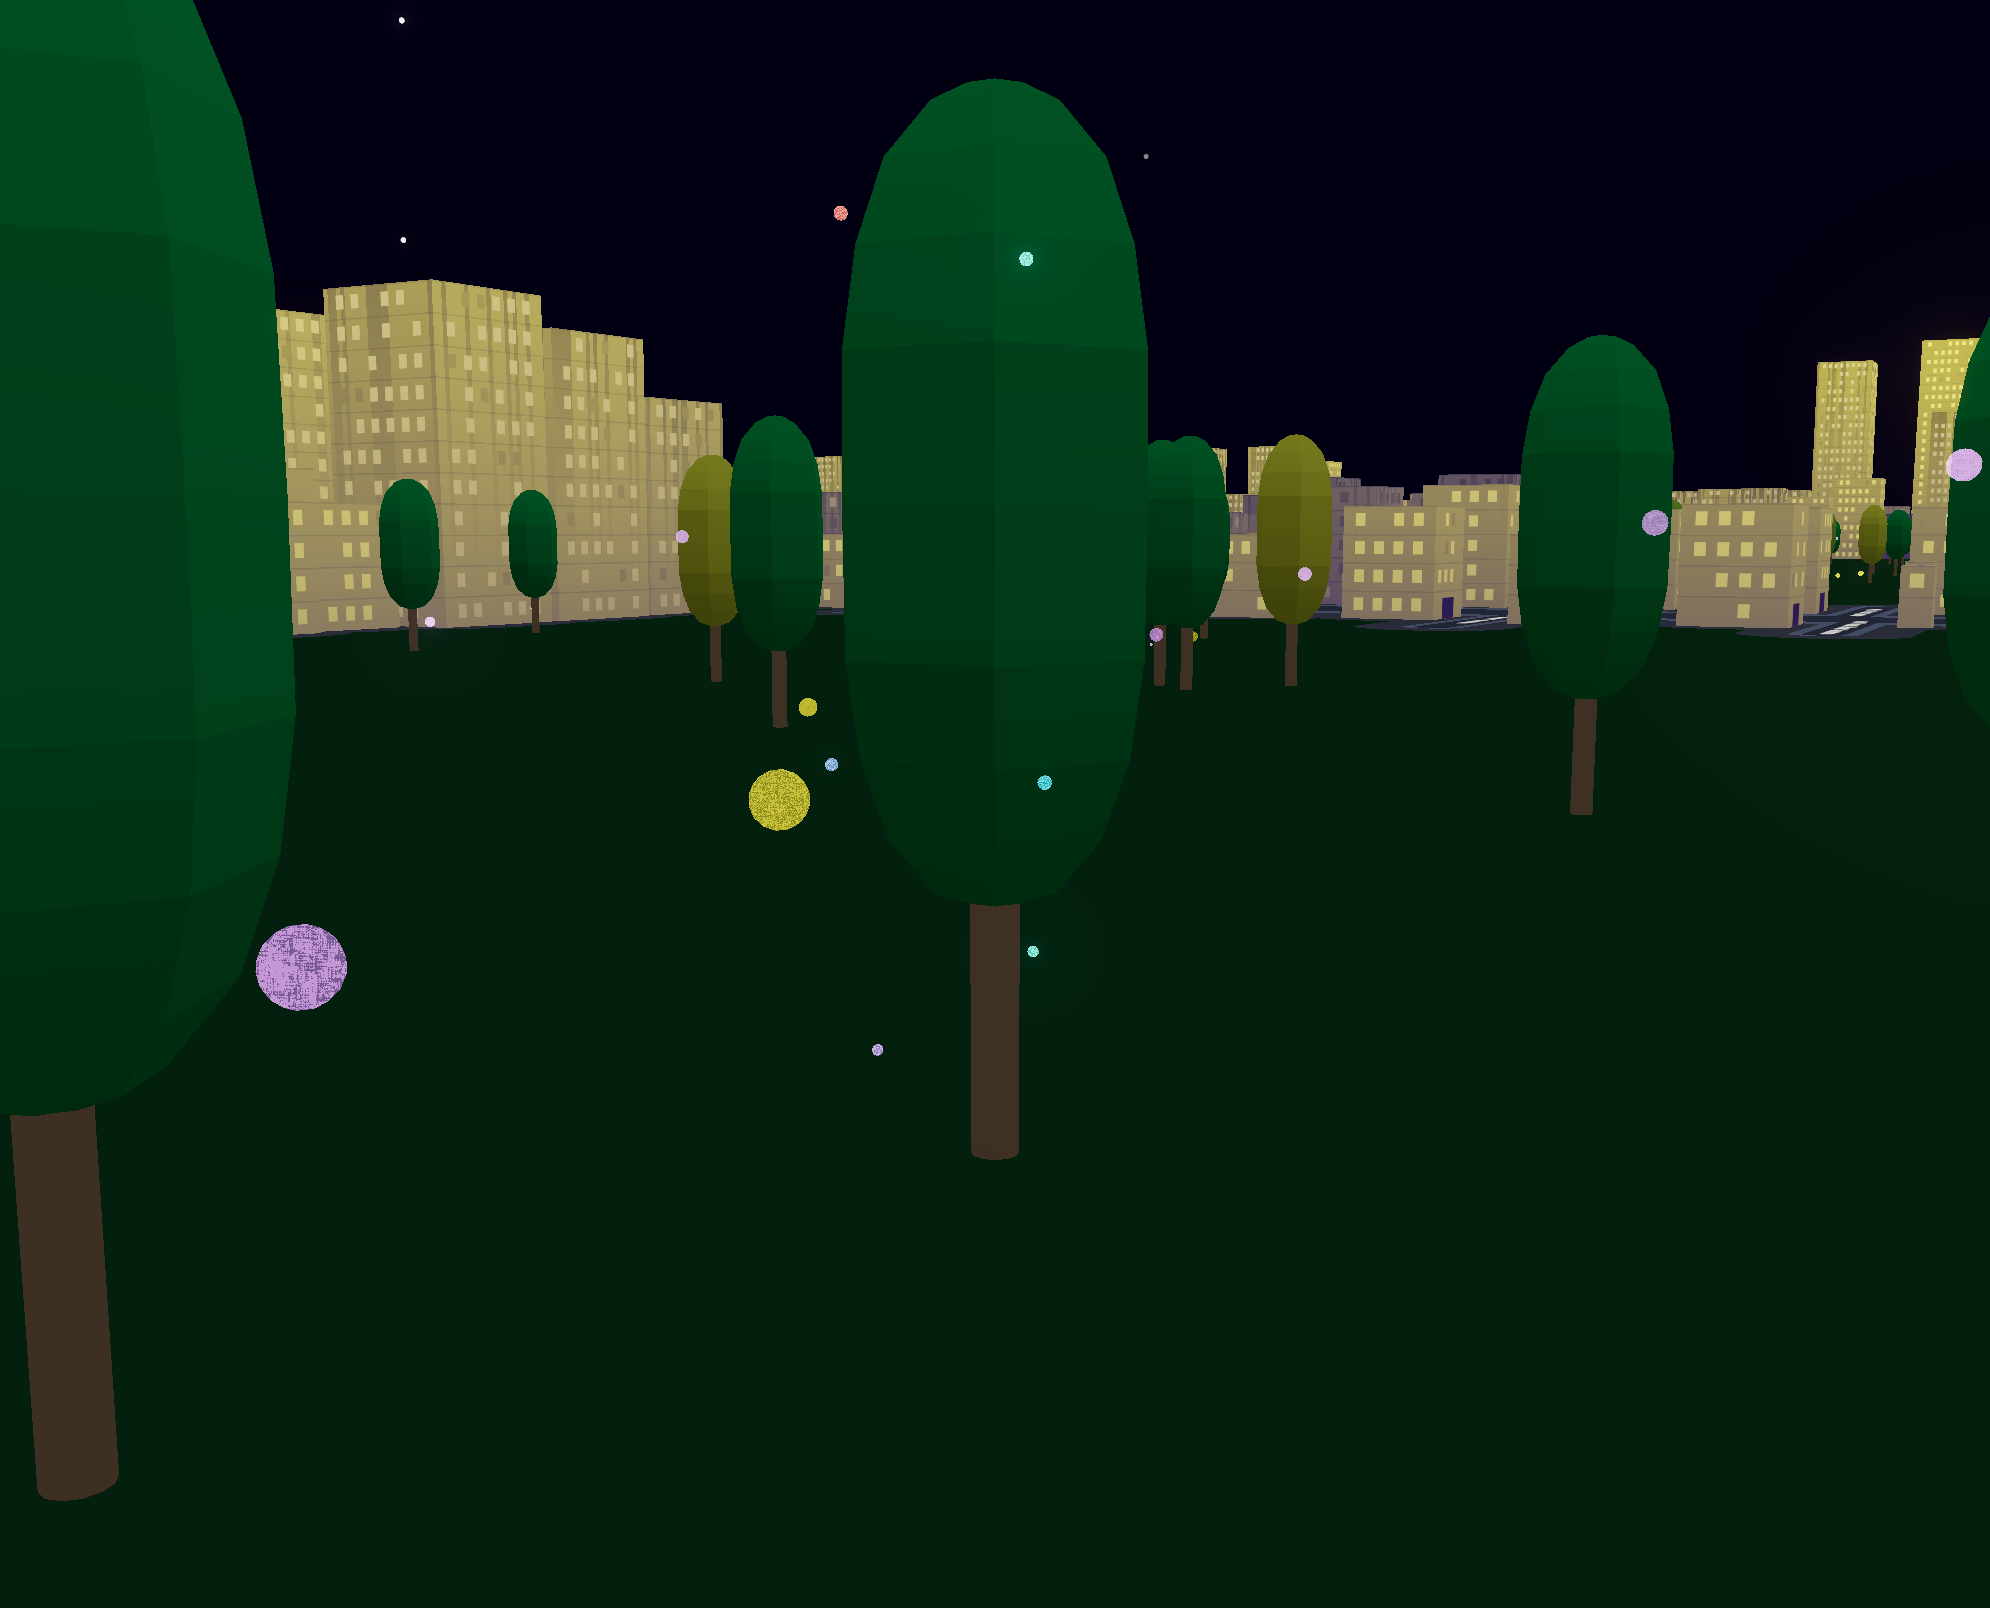
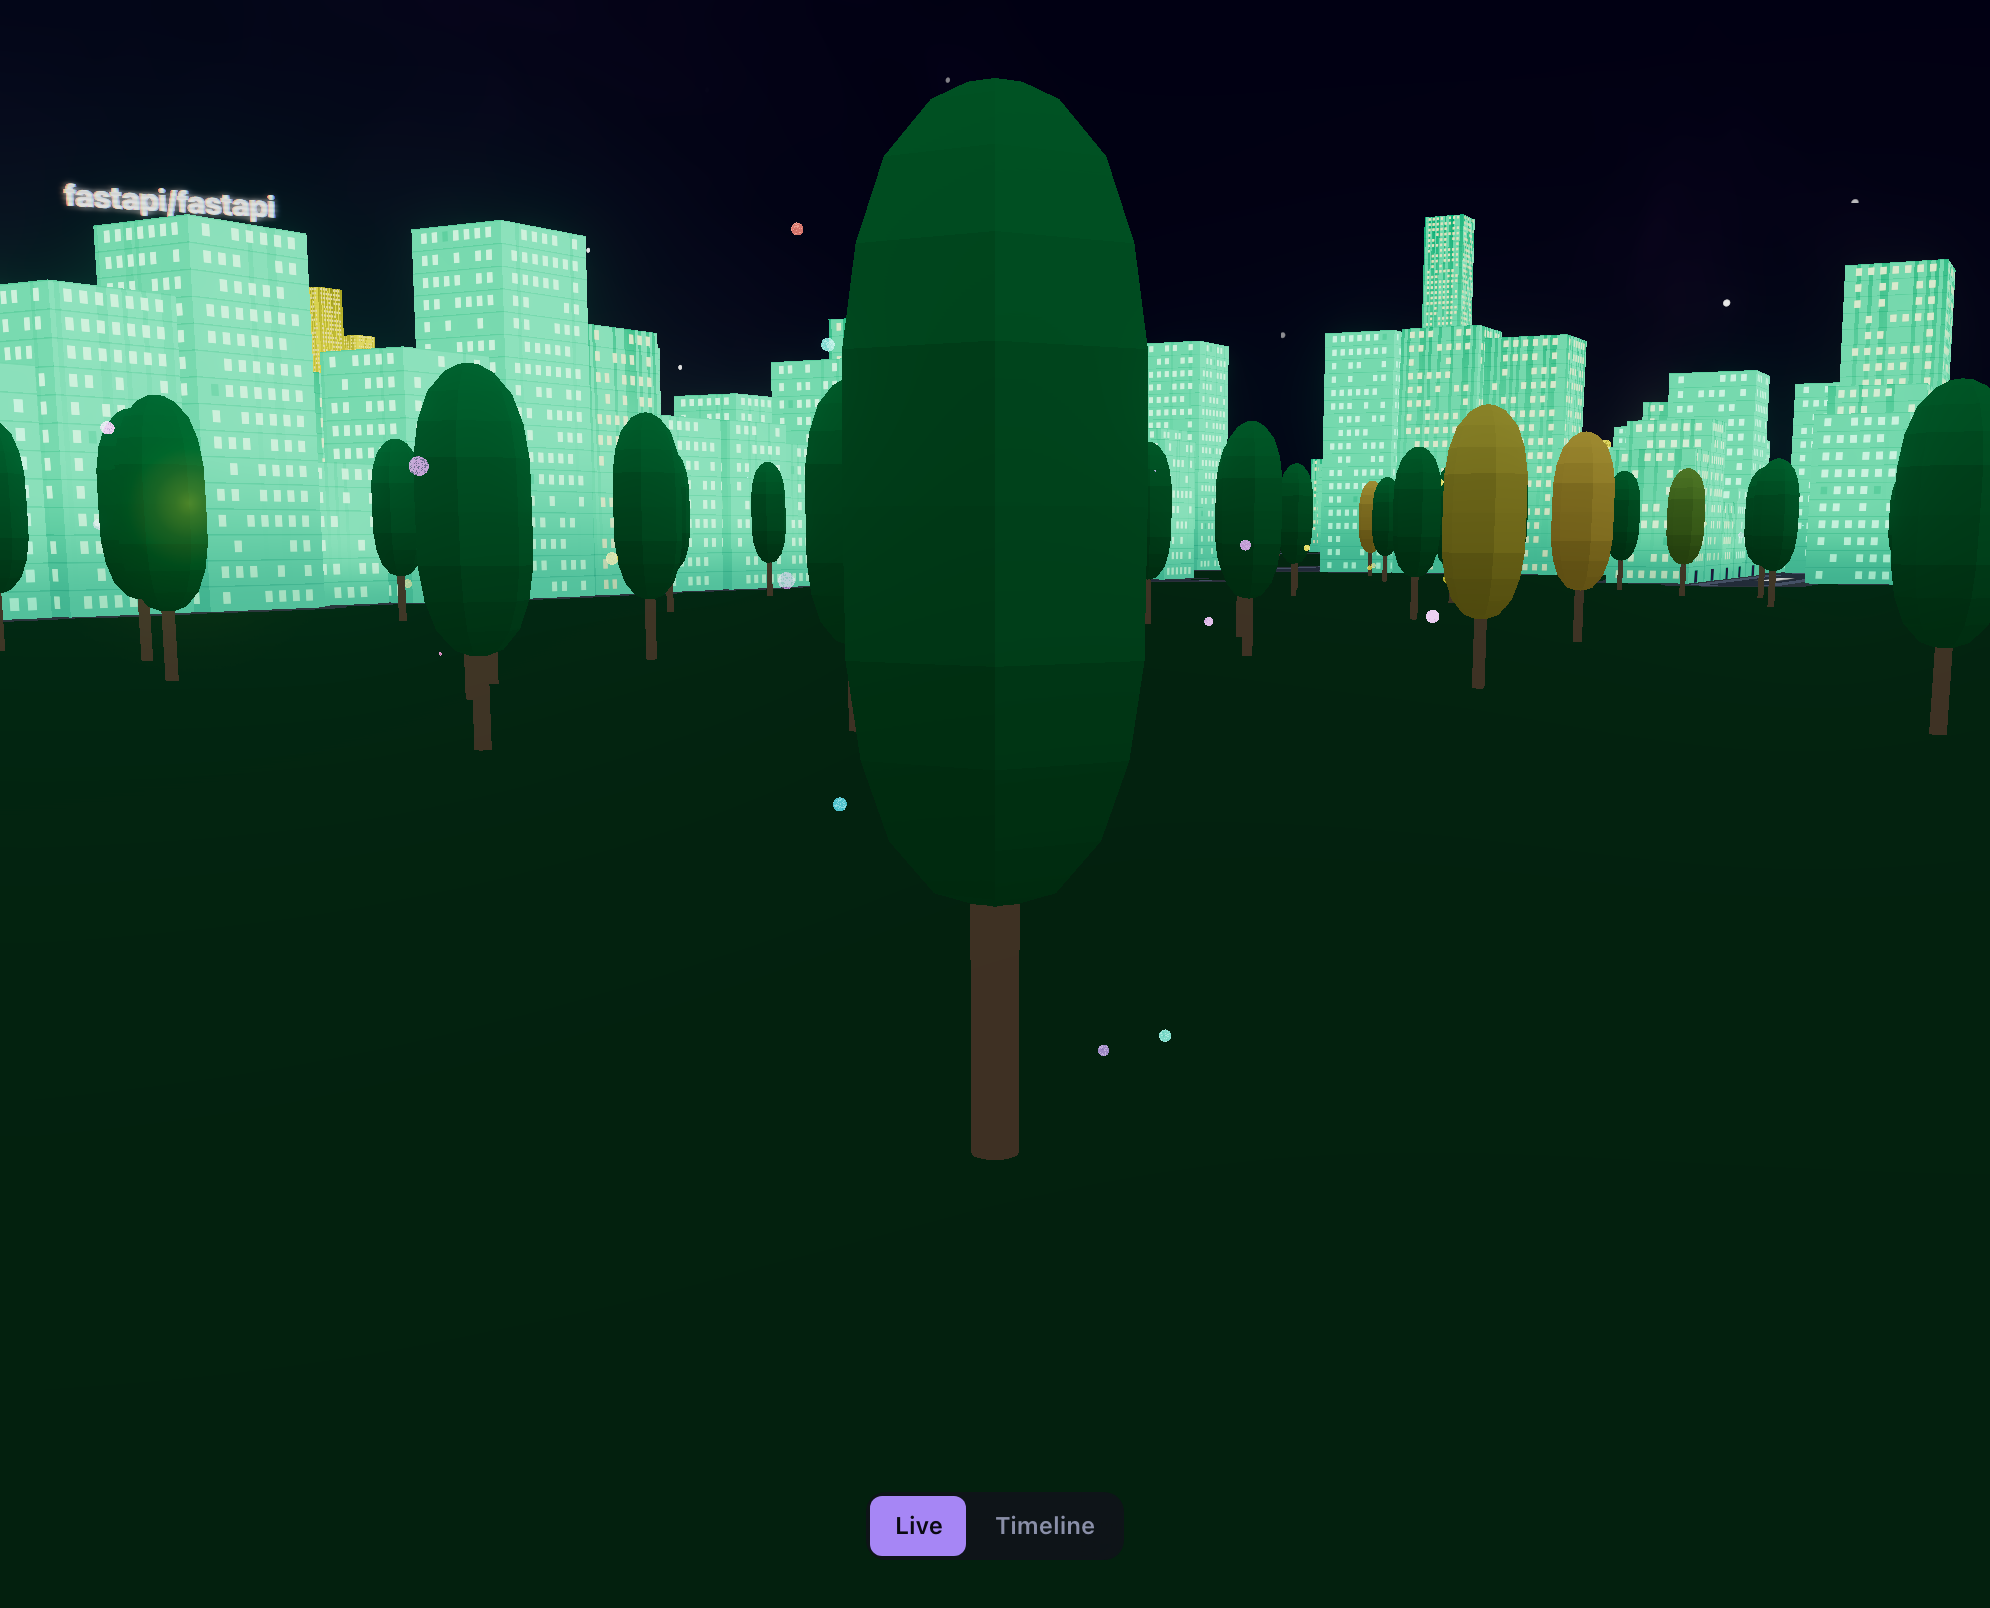
Refresh the README screenshots
Regenerated against current main, so the shots show this session's work:
crossed-out deleted files in Timeline, and the roof-border reference
colour on the buildings.

The timeline alt text described the old treatment ("gray stubs"), so it
moves with the image it describes.

demo.mp4 is deliberately not in here — it re-recorded too zoomed in.

diff --git a/README.md b/README.md
@@ -144,7 +144,7 @@ Just about every aspect of the rendering is tunable in the Settings pane, opened
 
 ## Timeline
 
-<img src=".github/readme/timeline.png" alt="An older commit rebuilt: a part-built city with deleted files left as gray stubs and future files marked by low tinted slabs" width="800" />
+<img src=".github/readme/timeline.png" alt="An older commit rebuilt: a part-built city with deleted files crossed out where they stood and future files marked by low tinted slabs" width="800" />
 
 **Scrub the whole history and watch the city grow.** The scene toggle flips from Live to Timeline, and a dated slider spans the repo, a tick per commit. Drag it and the city rebuilds at that commit.
 
